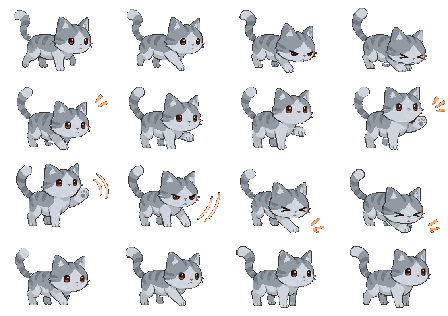
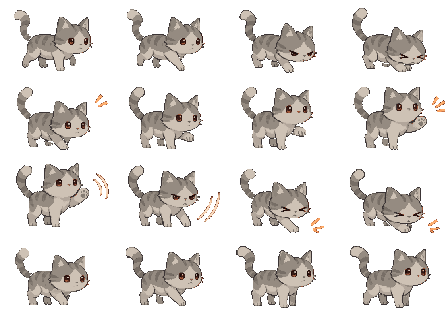
v2.5.1: warm mackerel palette and black-legged tuxedo

diff --git a/index.html b/index.html
@@ -3379,6 +3379,6 @@
       document.head.appendChild(analyticsScript);
     }
   </script>
-  <footer style="position:fixed;bottom:8px;left:0;right:0;text-align:center;font-size:11px;color:#64748b;pointer-events:none">v2.5.0 · 2026.11.27</footer>
+  <footer style="position:fixed;bottom:8px;left:0;right:0;text-align:center;font-size:11px;color:#64748b;pointer-events:none">v2.5.1 · 2026.11.27</footer>
 </body>
 </html>

diff --git a/CHANGELOG.md b/CHANGELOG.md
@@ -1,5 +1,10 @@
 # Changelog
 
+## v2.5.1 — 2026-11-27
+- Warm gray-brown mackerel coat instead of cool gray.
+- Tuxedo coat has black legs and reduced ivory chest and muzzle patches, matching approved color direction.
+- Original 16-frame silhouettes and timing preserved; no probability or other event changes.
+
 ## v2.5.0 — 2026-11-27
 - Jackpot reels stop individually from top to bottom, with an ascending chime at each lock and fanfare only after the final match.
 - Revised three coat sprites with unstriped tuxedo and patch-based calico, and cooler tabby markings; original 16-frame motion retained.
